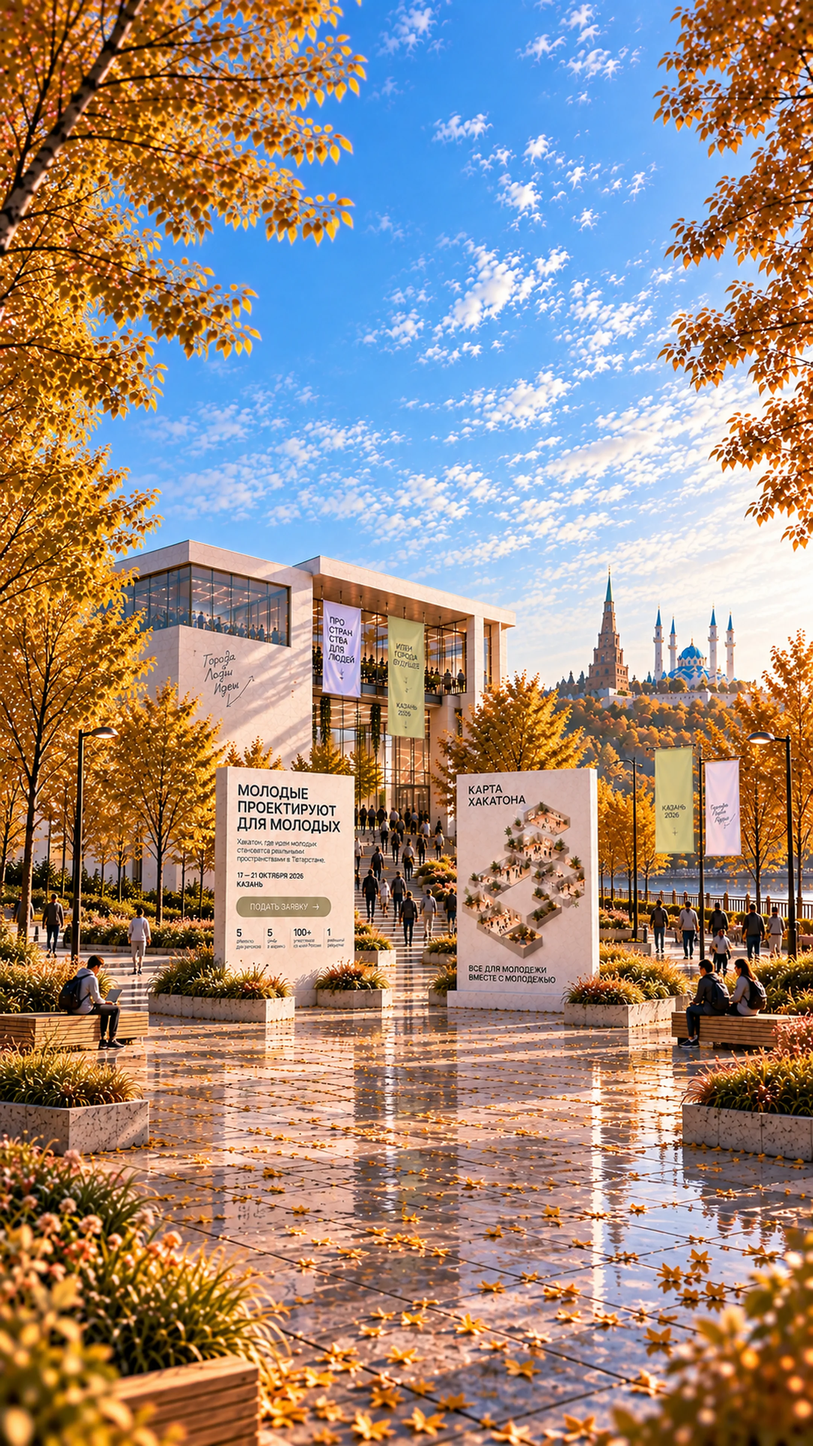
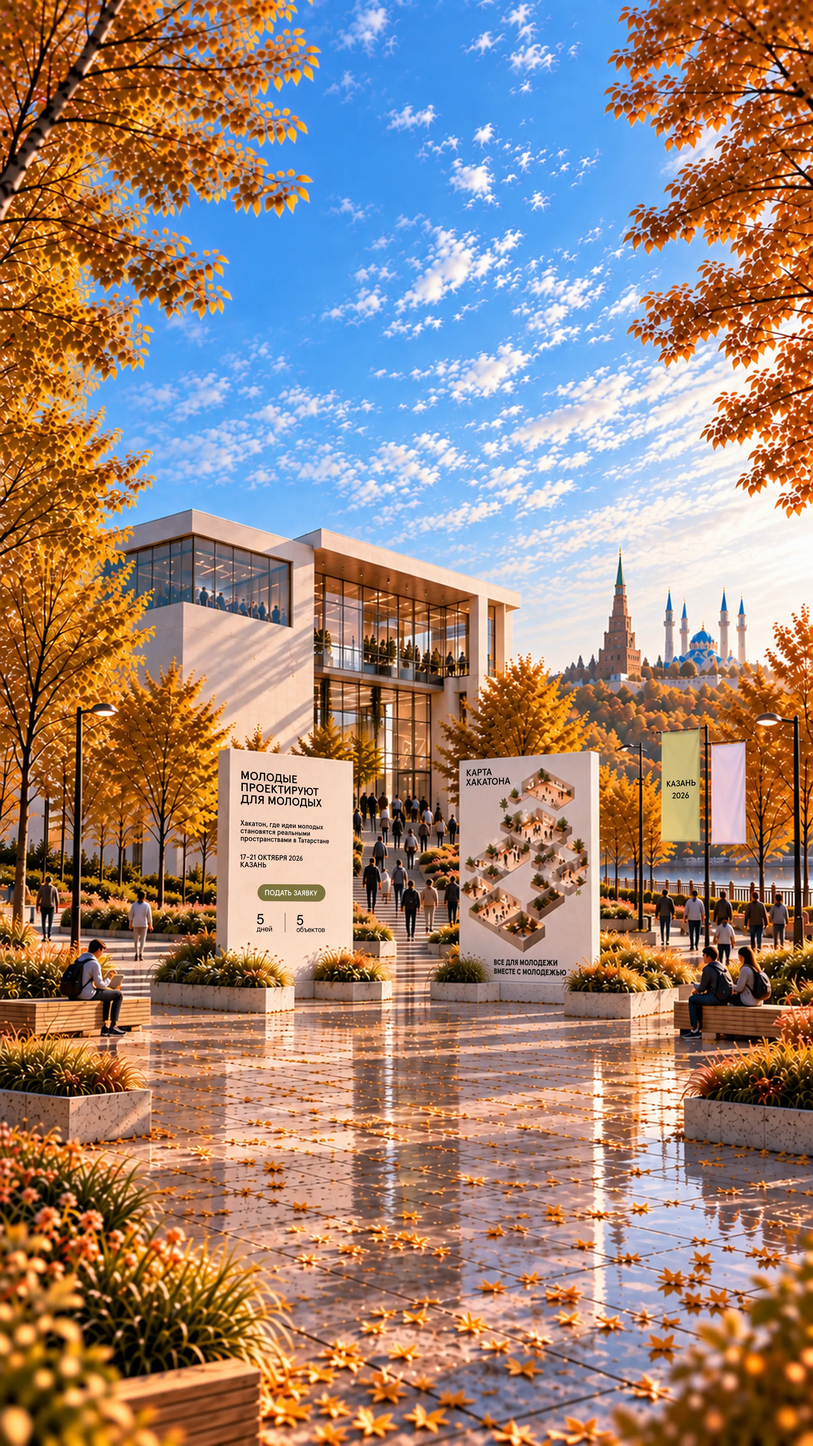
Replace zone 00/01/02 mobile base art with customer's redrawn versions
She redrew the mobile backgrounds herself (per the earlier decision that
the AI-generated baked-in text was too blurry) and sent new raw PNGs for
zones 00, 01 and 02's mobile bases. Converted all three to WebP at the
same size/quality convention as every other scene asset here. Only the
mobile slot was replaced — no desktop-sized (3840x2160) files were sent,
so desktop stays untouched.

Zone 02's mobile base needed the same blur-pad treatment its v3
predecessor had (pad_top/pad_bottom=564px, 45px Gaussian blur of each
edge's own 220px strip) to avoid reintroducing the real width-crop bug
that padding fixed originally — the new raw art is the same problematic
2160x3840 aspect on its own.

Re-tuned zone 00's mobile camera preset against the new art: scale 2.1
was clipping the right-hand "КАРТА ХАКАТОНА" stand, and the two stands'
side margins were uneven. Swept scale/x via Playwright screenshots;
landed on scale 1.7 (both stands fully in frame) and x 50 (even margins
on both sides, per customer feedback after an intermediate x 52).

Claude-Session: https://claude.ai/code/session_01RJvdGVkngumnZtnGfKfNXc

diff --git a/site-v2/config/scenes.js b/site-v2/config/scenes.js
@@ -87,7 +87,13 @@
     // height-bound instead, showing the FULL width (all baked-in text)
     // with no crop, at the cost of a bit of decorative
     // ceiling/floor being replaced by soft blur. h updated (3840 -> 4968).
-    'zone-02-mobile': { src: ASSETS_BASE + 'zone-02-mobile-base-cards-baked-v3-2160x3840.webp', w: 2160, h: 4968 },
+    // v4 (customer, 2026-09-21): sent a new raw base ("02 m", redrawn
+    // artwork), still the same problematic raw 2160x3840 — re-applied the
+    // IDENTICAL blur-pad fix (same pad_top/pad_bottom=564, same 45px
+    // Gaussian blur of each edge's own 220px strip) so this new artwork
+    // doesn't reintroduce the width-crop bug the v3 padding fixed. w/h
+    // unchanged (2160x4968); old v3 file removed.
+    'zone-02-mobile': { src: ASSETS_BASE + 'zone-02-mobile-base-cards-baked-v4-2160x4968.webp', w: 2160, h: 4968 },
     // customer sent a SECOND replacement background for zone 03 (2026-09-14,
     // "замени пожалуйста базу для зоны 3 ... поправить размещение кнопки
     // плюс") — new artwork, same baked-in card layout convention as before.
@@ -241,7 +247,20 @@
       // this scale — 2.5 already was). See config/zone-00-content.js
       // ZONE_00_NAV_HOTSPOTS for the counterScaleItem fix that keeps the
       // map's 8 dots a real, constant tap size regardless of this zoom.
-      mobile: { asset: sceneAsset('zone-00-mobile'), cameraPreset: { x: 48, y: 62, scale: 2.1 }, hotspots: [] }
+      // customer (2026-09-21): new redrawn mobile BASE (see zone-00-mobile
+      // above) shifted the two stands' actual position in-frame — at the
+      // old scale 2.1 the "КАРТА ХАКАТОНА" stand's right edge/caption was
+      // clipped. "нужно уменьшить зум чтобы обе стелы было видно" — swept
+      // 2.1/1.9/1.7/1.5/1.35 via Playwright screenshots against the NEW
+      // art; 1.9 still crowded the right stand against the frame edge,
+      // 1.7 is the first value with both stands fully in view with real
+      // margin, so that's the new value (was 2.1).
+      // "справа и слева от стелл одинаковое расстояние воздуха, камеру
+      // сместить чуть-чуть вправо" — swept x 44..56 at scale 1.7; 48 (old)
+      // left almost no margin on the left stand and a visibly bigger gap
+      // on the right one, 52 evened the two margins out. Customer then
+      // asked "чуть-чуть левее" — nudged back down to 50.
+      mobile: { asset: sceneAsset('zone-00-mobile'), cameraPreset: { x: 50, y: 62, scale: 1.7 }, hotspots: [] }
     },
     '01': {
       // FAST MODE production pass: own dedicated BASE (was sharing
